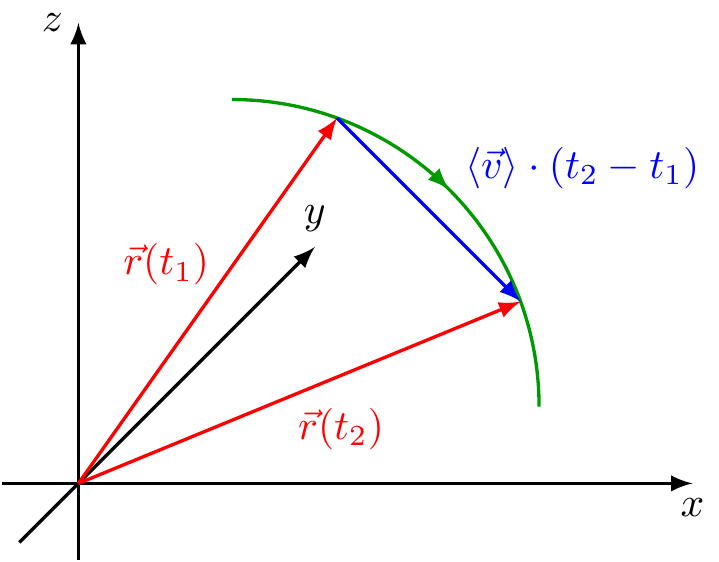
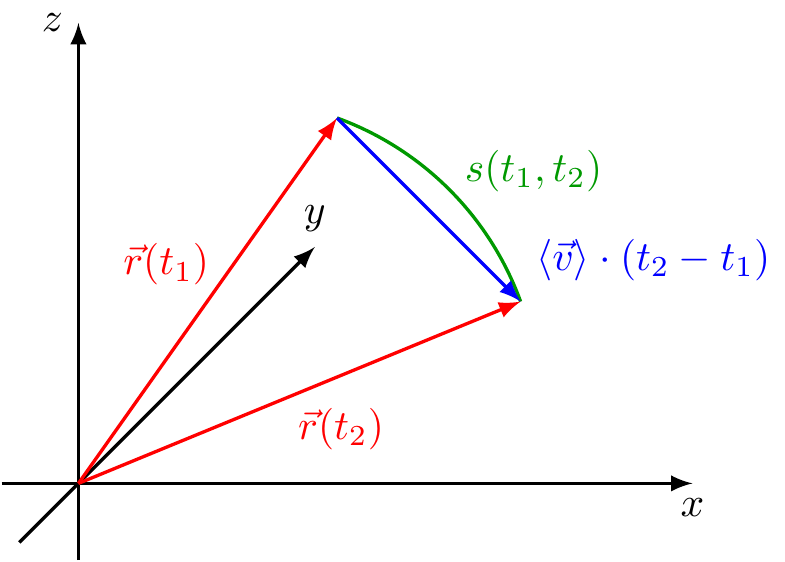
refine curve length

diff --git a/mechanics/velocity-average/velocity-average.tex b/mechanics/velocity-average/velocity-average.tex
@@ -1,7 +1,7 @@
 \documentclass[crop,tikz]{standalone}
 
 \tikzset{>=latex}
-\usetikzlibrary{calc,decorations.markings}
+\usetikzlibrary{calc}
 \newcommand{\place}{\vec{r}}
 \newcommand{\velocity}{\vec{v}}
 
@@ -11,18 +11,16 @@
   \draw[->,thick] (xyz cs:x=-0.5) -- (xyz cs:x=4)  node[below] {$x$};
   \draw[->,thick] (xyz cs:y=-0.5) -- (xyz cs:y=3)  node[left] {$z$};
   \draw[->,thick] (xyz cs:z=1)    -- (xyz cs:z=-4) node[above] {$y$};
-  % path
-  \draw[thick,
-        decoration={markings, mark=at position 0.5 with {\arrow{>}}},
-        postaction={decorate},
-        black!40!green]
-       (xyz cs:x=1,y=2.5,z=0) arc (90:0:2);
   % space point
   \coordinate (r1) at ($(1,0.5)+(70:2)$);
   \coordinate (r2) at ($(1,0.5)+(20:2)$);
+  % path
+  \draw[thick,black!40!green] (r1) arc (70:20:2);
+  \node[right,xshift=0.5em,black!40!green] at ($(1,0.5)+(50:2)$) {$s(t_1,t_2)$};
+  % space-point vectors
   \draw[->,thick,red] (xyz cs:x=0) -- node[above,xshift=-1em]{$\place(t_1)$} (r1);
   \draw[->,thick,red] (xyz cs:x=0) -- node[below,xshift=+1em]{$\place(t_2)$} (r2);
   % delta r
-  \draw[->,thick,blue] (r1) -- node[anchor=west,xshift=0.5em,yshift=1em]{$\langle\velocity\rangle\cdot(t_2-t_1)$} (r2);
+  \draw[->,thick,blue] (r1) -- (r2) node[right,yshift=1em]{$\langle\velocity\rangle\cdot(t_2-t_1)$};
 \end{tikzpicture}
 \end{document}

diff --git a/list.md b/list.md
@@ -239,7 +239,7 @@
 \documentclass[crop,tikz]{standalone}
 
 \tikzset{>=latex}
-\usetikzlibrary{calc,decorations.markings}
+\usetikzlibrary{calc}
 \newcommand{\place}{\vec{r}}
 \newcommand{\velocity}{\vec{v}}
 
@@ -249,19 +249,17 @@
   \draw[->,thick] (xyz cs:x=-0.5) -- (xyz cs:x=4)  node[below] {$x$};
   \draw[->,thick] (xyz cs:y=-0.5) -- (xyz cs:y=3)  node[left] {$z$};
   \draw[->,thick] (xyz cs:z=1)    -- (xyz cs:z=-4) node[above] {$y$};
-  % path
-  \draw[thick,
-        decoration={markings, mark=at position 0.5 with {\arrow{>}}},
-        postaction={decorate},
-        black!40!green]
-       (xyz cs:x=1,y=2.5,z=0) arc (90:0:2);
   % space point
   \coordinate (r1) at ($(1,0.5)+(70:2)$);
   \coordinate (r2) at ($(1,0.5)+(20:2)$);
+  % path
+  \draw[thick,black!40!green] (r1) arc (70:20:2);
+  \node[right,xshift=0.5em,black!40!green] at ($(1,0.5)+(50:2)$) {$s(t_1,t_2)$};
+  % space-point vectors
   \draw[->,thick,red] (xyz cs:x=0) -- node[above,xshift=-1em]{$\place(t_1)$} (r1);
   \draw[->,thick,red] (xyz cs:x=0) -- node[below,xshift=+1em]{$\place(t_2)$} (r2);
   % delta r
-  \draw[->,thick,blue] (r1) -- node[anchor=west,xshift=0.5em,yshift=1em]{$\langle\velocity\rangle\cdot(t_2-t_1)$} (r2);
+  \draw[->,thick,blue] (r1) -- (r2) node[right,yshift=1em]{$\langle\velocity\rangle\cdot(t_2-t_1)$};
 \end{tikzpicture}
 \end{document}
 ~~~
